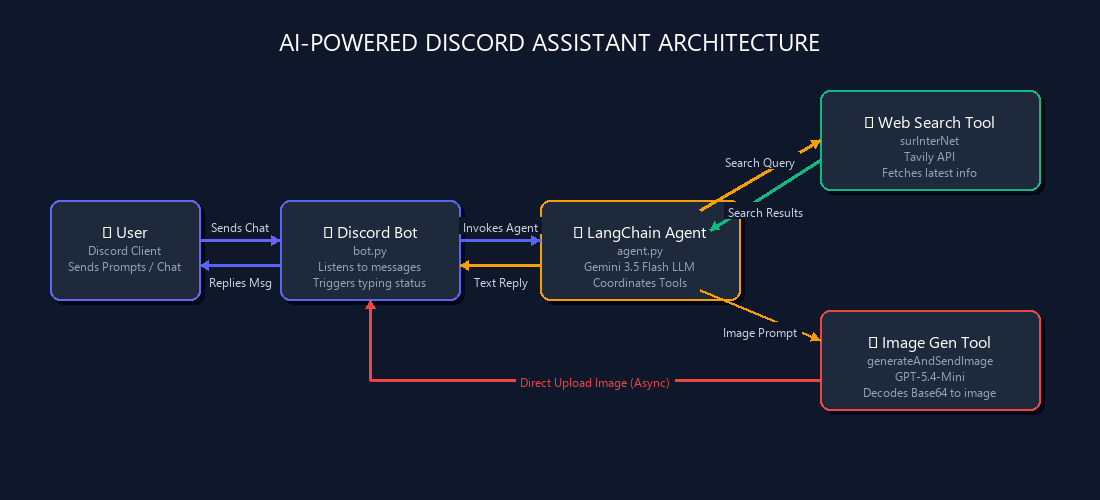
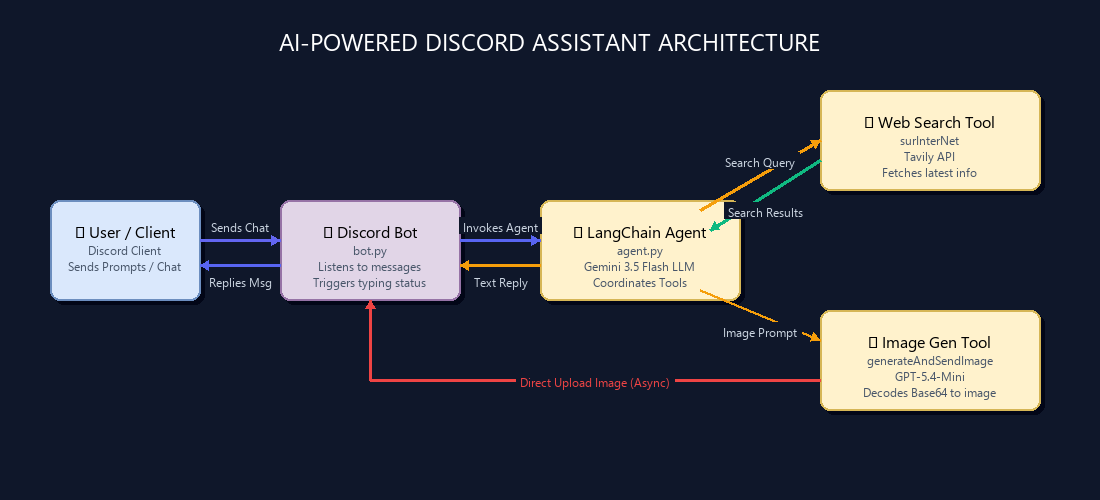
Format project flow diagram section to match reference template

diff --git a/README.md b/README.md
@@ -1,12 +1,6 @@
-# 🤖 AI-Powered Discord Assistant
+# 1. Project Flow Diagram (Horizontal Block Flow)
 
-An intelligent, agent-based Discord bot that uses state-of-the-art Generative AI models. The bot listens to user messages, understands context, and uses specialized tools to surf the web and generate images dynamically.
-
----
-
-## 🗺️ System Architecture
-
-Here is the system architecture showing how data flows between the User, Discord Bot, LangChain Agent, and its tools:
+The following Mermaid diagram shows the flow of data and execution. It contains the **User (Actor)** and **Discord Client / Tools (Service)** symbols, displaying the process from left to right.
 
 ![System Architecture](architecture.png)
 
@@ -15,23 +9,23 @@ Here is the system architecture showing how data flows between the User, Discord
 
 ```mermaid
 graph LR
-    User["👤 User (Discord Client)"] -->|1. Sends Message| Bot["💬 Discord Bot (bot.py)"]
-    Bot -->|2. Invokes Agent (ainvoke)| Agent["🤖 LangChain Agent (agent.py)"]
+    User["👤 User / Client"] -->|1. Sends Message| Bot["💬 Discord Bot<br/>(bot.py)"]
+    Bot -->|2. Invokes Agent (ainvoke)| Agent["🤖 LangChain Agent<br/>(gemini-3.5-flash)"]
     
-    Agent -->|3a. Queries Web| Tavily["🔍 Tavily Web Search (surInterNet)"]
-    Tavily -.->|4a. Results| Agent
+    Agent -->|3a. Trigger Search| Tavily["🔍 surInterNet Tool<br/>(Tavily Web Search)"]
+    Tavily -.->|4a. Return Search Results| Agent
     
-    Agent -->|3b. Requests Image| OpenAI["🎨 Image Gen (generateAndSendImage)"]
-    OpenAI -.->|4b. Uploads Image File| Bot
+    Agent -->|3b. Trigger Gen| ImageGen["🎨 Image Gen Tool<br/>(generateAndSendImage)"]
+    ImageGen -.->|4b. Direct Upload File| Bot
     
-    Agent -.->|5. Returns Status| Bot
-    Bot -.->|6. Delivers Reply| User
+    Agent -.->|5. Send Text Reply| Bot
+    Bot -.->|6. Final Response| User
 
-    style User fill:#7289da,stroke:#5b73c7,stroke-width:2px,color:#fff
-    style Bot fill:#5865F2,stroke:#4752C4,stroke-width:2px,color:#fff
-    style Agent fill:#F4B400,stroke:#DBA100,stroke-width:2px,color:#fff
-    style Tavily fill:#0F9D58,stroke:#0B7F46,stroke-width:2px,color:#fff
-    style OpenAI fill:#DB4437,stroke:#C23B2F,stroke-width:2px,color:#fff
+    style User fill:#dae8fc,stroke:#6c8ebf,stroke-width:2px,color:#000
+    style Bot fill:#e1d5e7,stroke:#9673a6,stroke-width:2px,color:#000
+    style Agent fill:#fff2cc,stroke:#d6b656,stroke-width:2px,color:#000
+    style Tavily fill:#fff2cc,stroke:#d6b656,stroke-width:2px,color:#000
+    style ImageGen fill:#fff2cc,stroke:#d6b656,stroke-width:2px,color:#000
 ```
 
 </details>